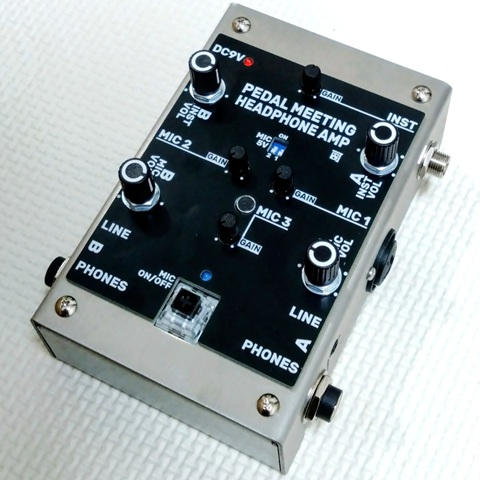
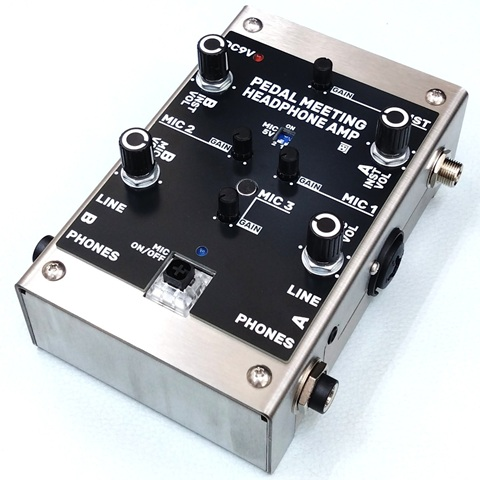
Update README

diff --git a/PedalMeetingHeadphoneAmp/README.md b/PedalMeetingHeadphoneAmp/README.md
@@ -3,6 +3,8 @@
 
 エフェクター展示会の試奏ブースでのコミュニケーションを円滑にするために設計されたヘッドフォンアンプです。ギター／ベースの音と会話用のマイク音声をミックスし、ヘッドフォンで聴くことができます。試奏者と出展者が音を共有できると共に、ヘッドフォンを外さずに会話することが可能となります。
 
+※ 電源は、DC9V（センターマイナス）出力のACアダプターで、0.3A以上の電流出力が可能なものを使用してください。
+
 
 
 ### ■ 入力
@@ -45,17 +47,25 @@
 
 - MIC 5V
 
-  プラグインパワー方式のコンデンサーマイクを使用する際にONにします。ダイナミックマイク接続時はOFFにします。48Vファンタム電源が必要なマイクには対応していません。
+  プラグインパワー方式のコンデンサーマイク（[BEHRINGER BC LAV](https://www.electori-br.jp/products/1043.html) 等）を使用する際にONにします。ダイナミックマイク接続時はOFFにします。48Vファンタム電源が必要なマイクには対応していません。
 
 
 
 
-### 資料
+### ■ 資料
 - [Pedal Meeting Headphone Amp製作に関する記事](https://kanengomibako.github.io/)（準備中）
 
 
 
-| 主な仕様 |  |
+| ■ 主な仕様 |  |
 | - | - |
-| （準備中） | （準備中） |
+| 入力インピーダンス | 47kΩ（INST）<br>10kΩ（MIC） |
+| 出力インピーダンス | 1 kΩ（LINE）<br>10Ω（PHONES） |
+| 最大出力レベル | 2.5 Vrms（LINE）<br>50 mW + 50 mW, 32Ω（PHONES） |
+| コントロール | MIC ON／OFFスイッチ　MIC 5Vスイッチ　GAINつまみ × 4　VOLつまみ × 4 |
+| インジケーター | 赤色LED（電源ON）<br>青色LED（マイクON） |
+| 接続端子 | INST　MIC1／2　PHONES A／B　LINE A／B　電源入力端子 |
+| 消費電流 | 40 mA（無信号時）<br>300 mA（最大出力時） |
+| 外形寸法 | 幅 100 mm × 奥行 130 mm × 高さ 57 mm |
+| 質量 | 550 g |
 